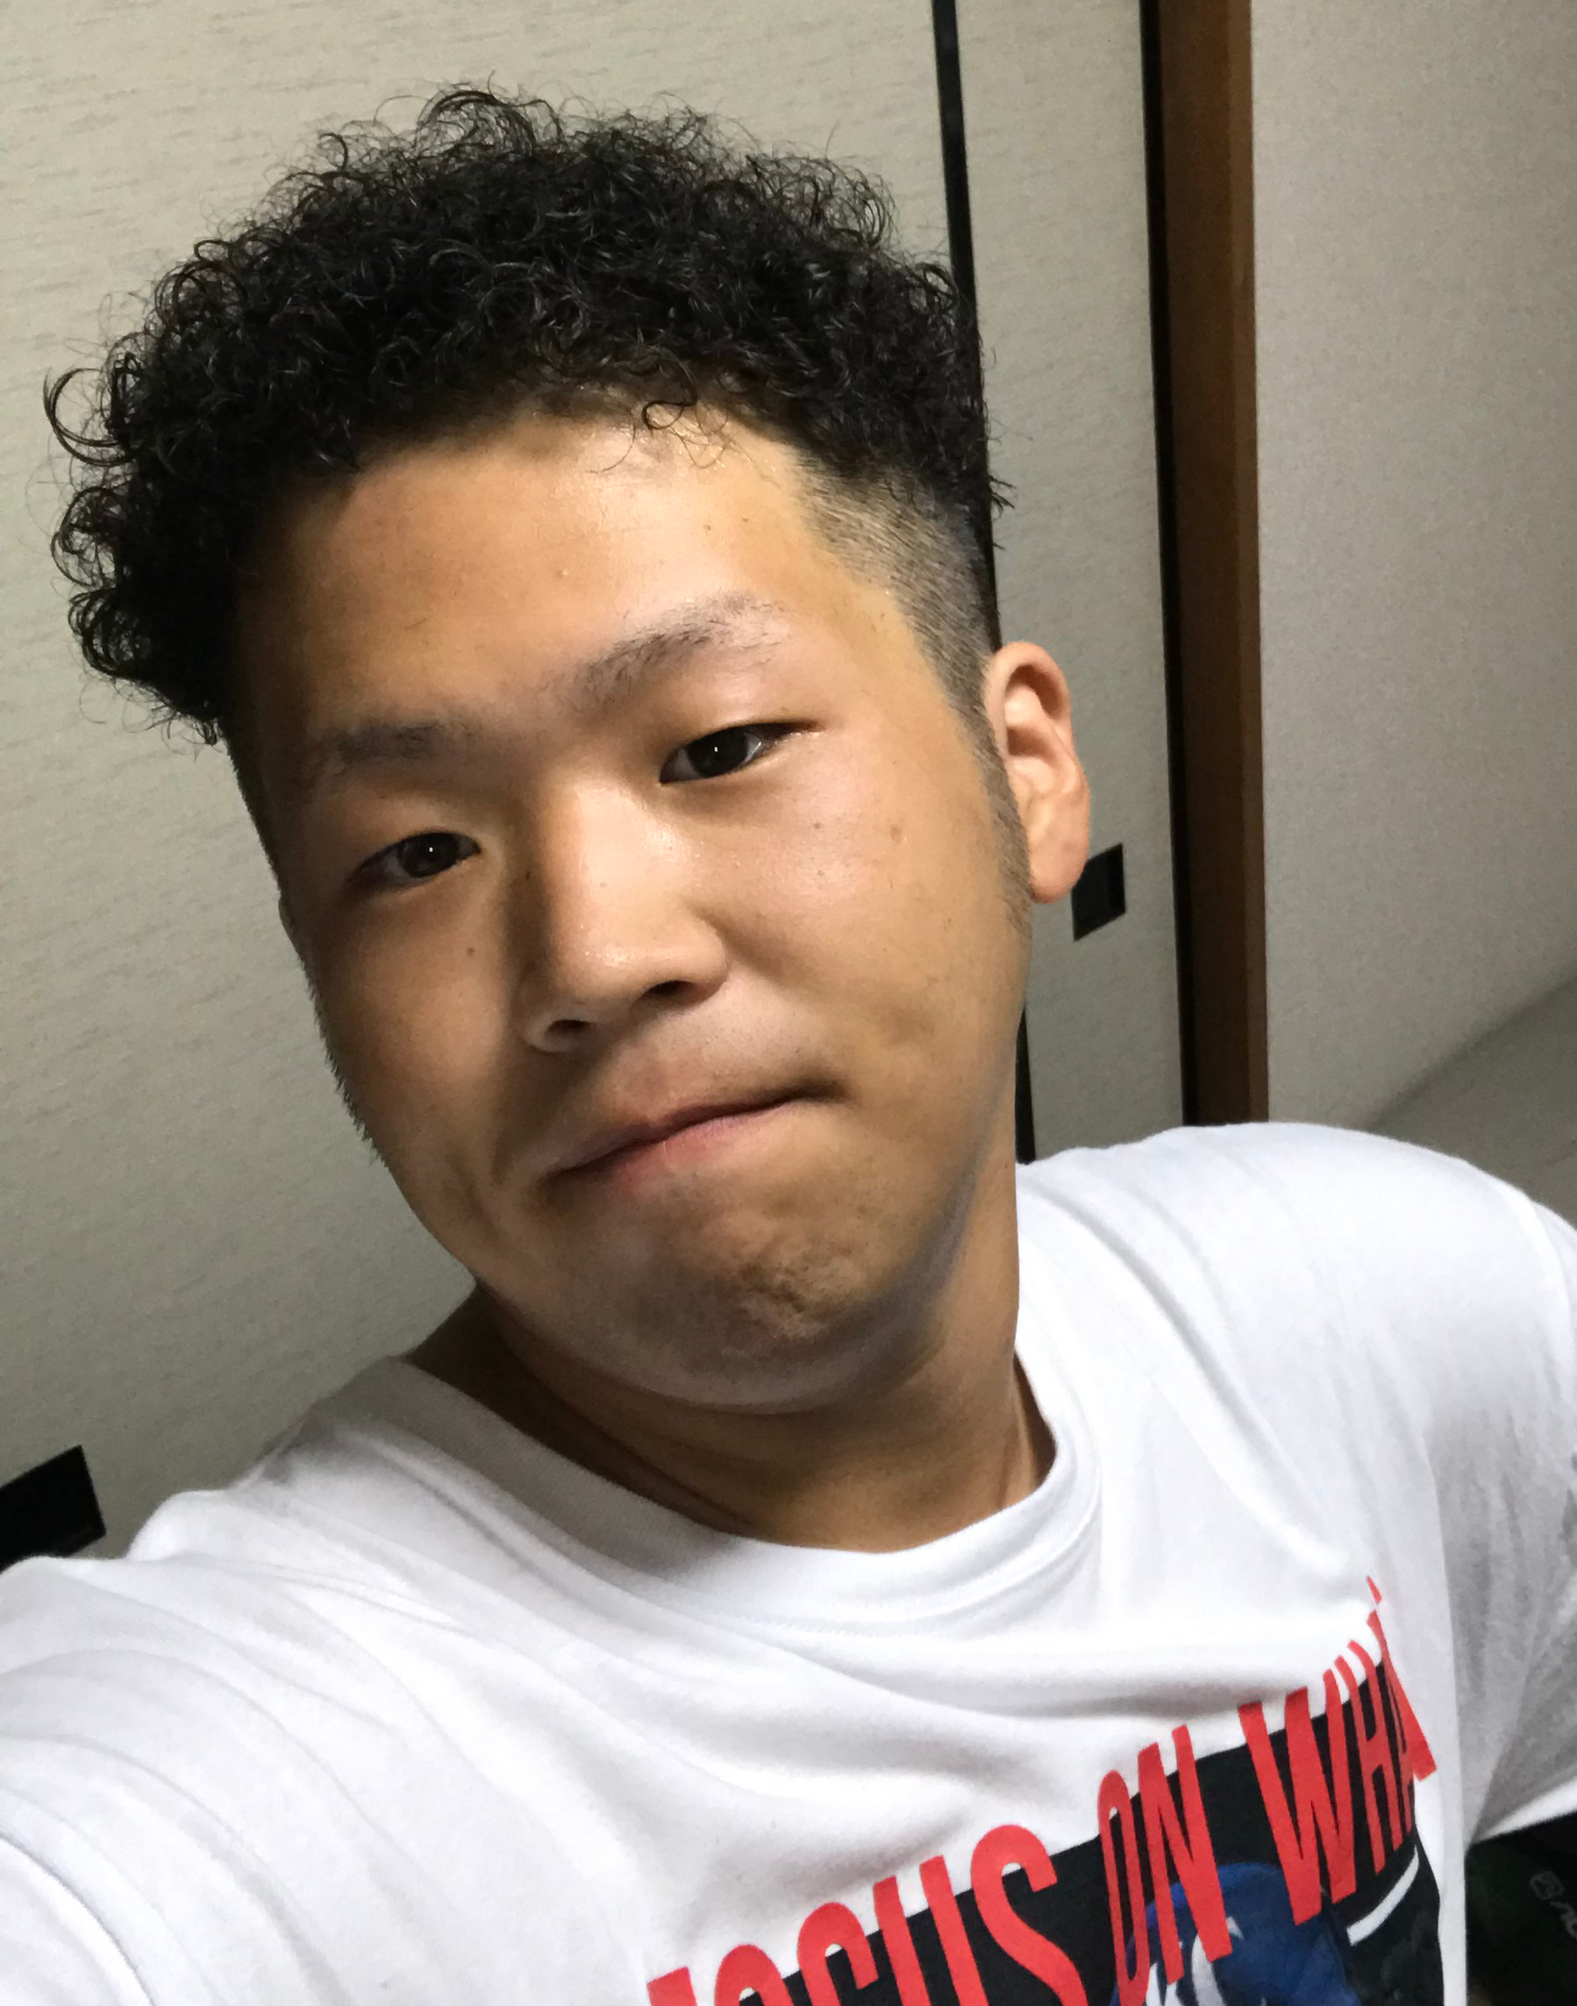
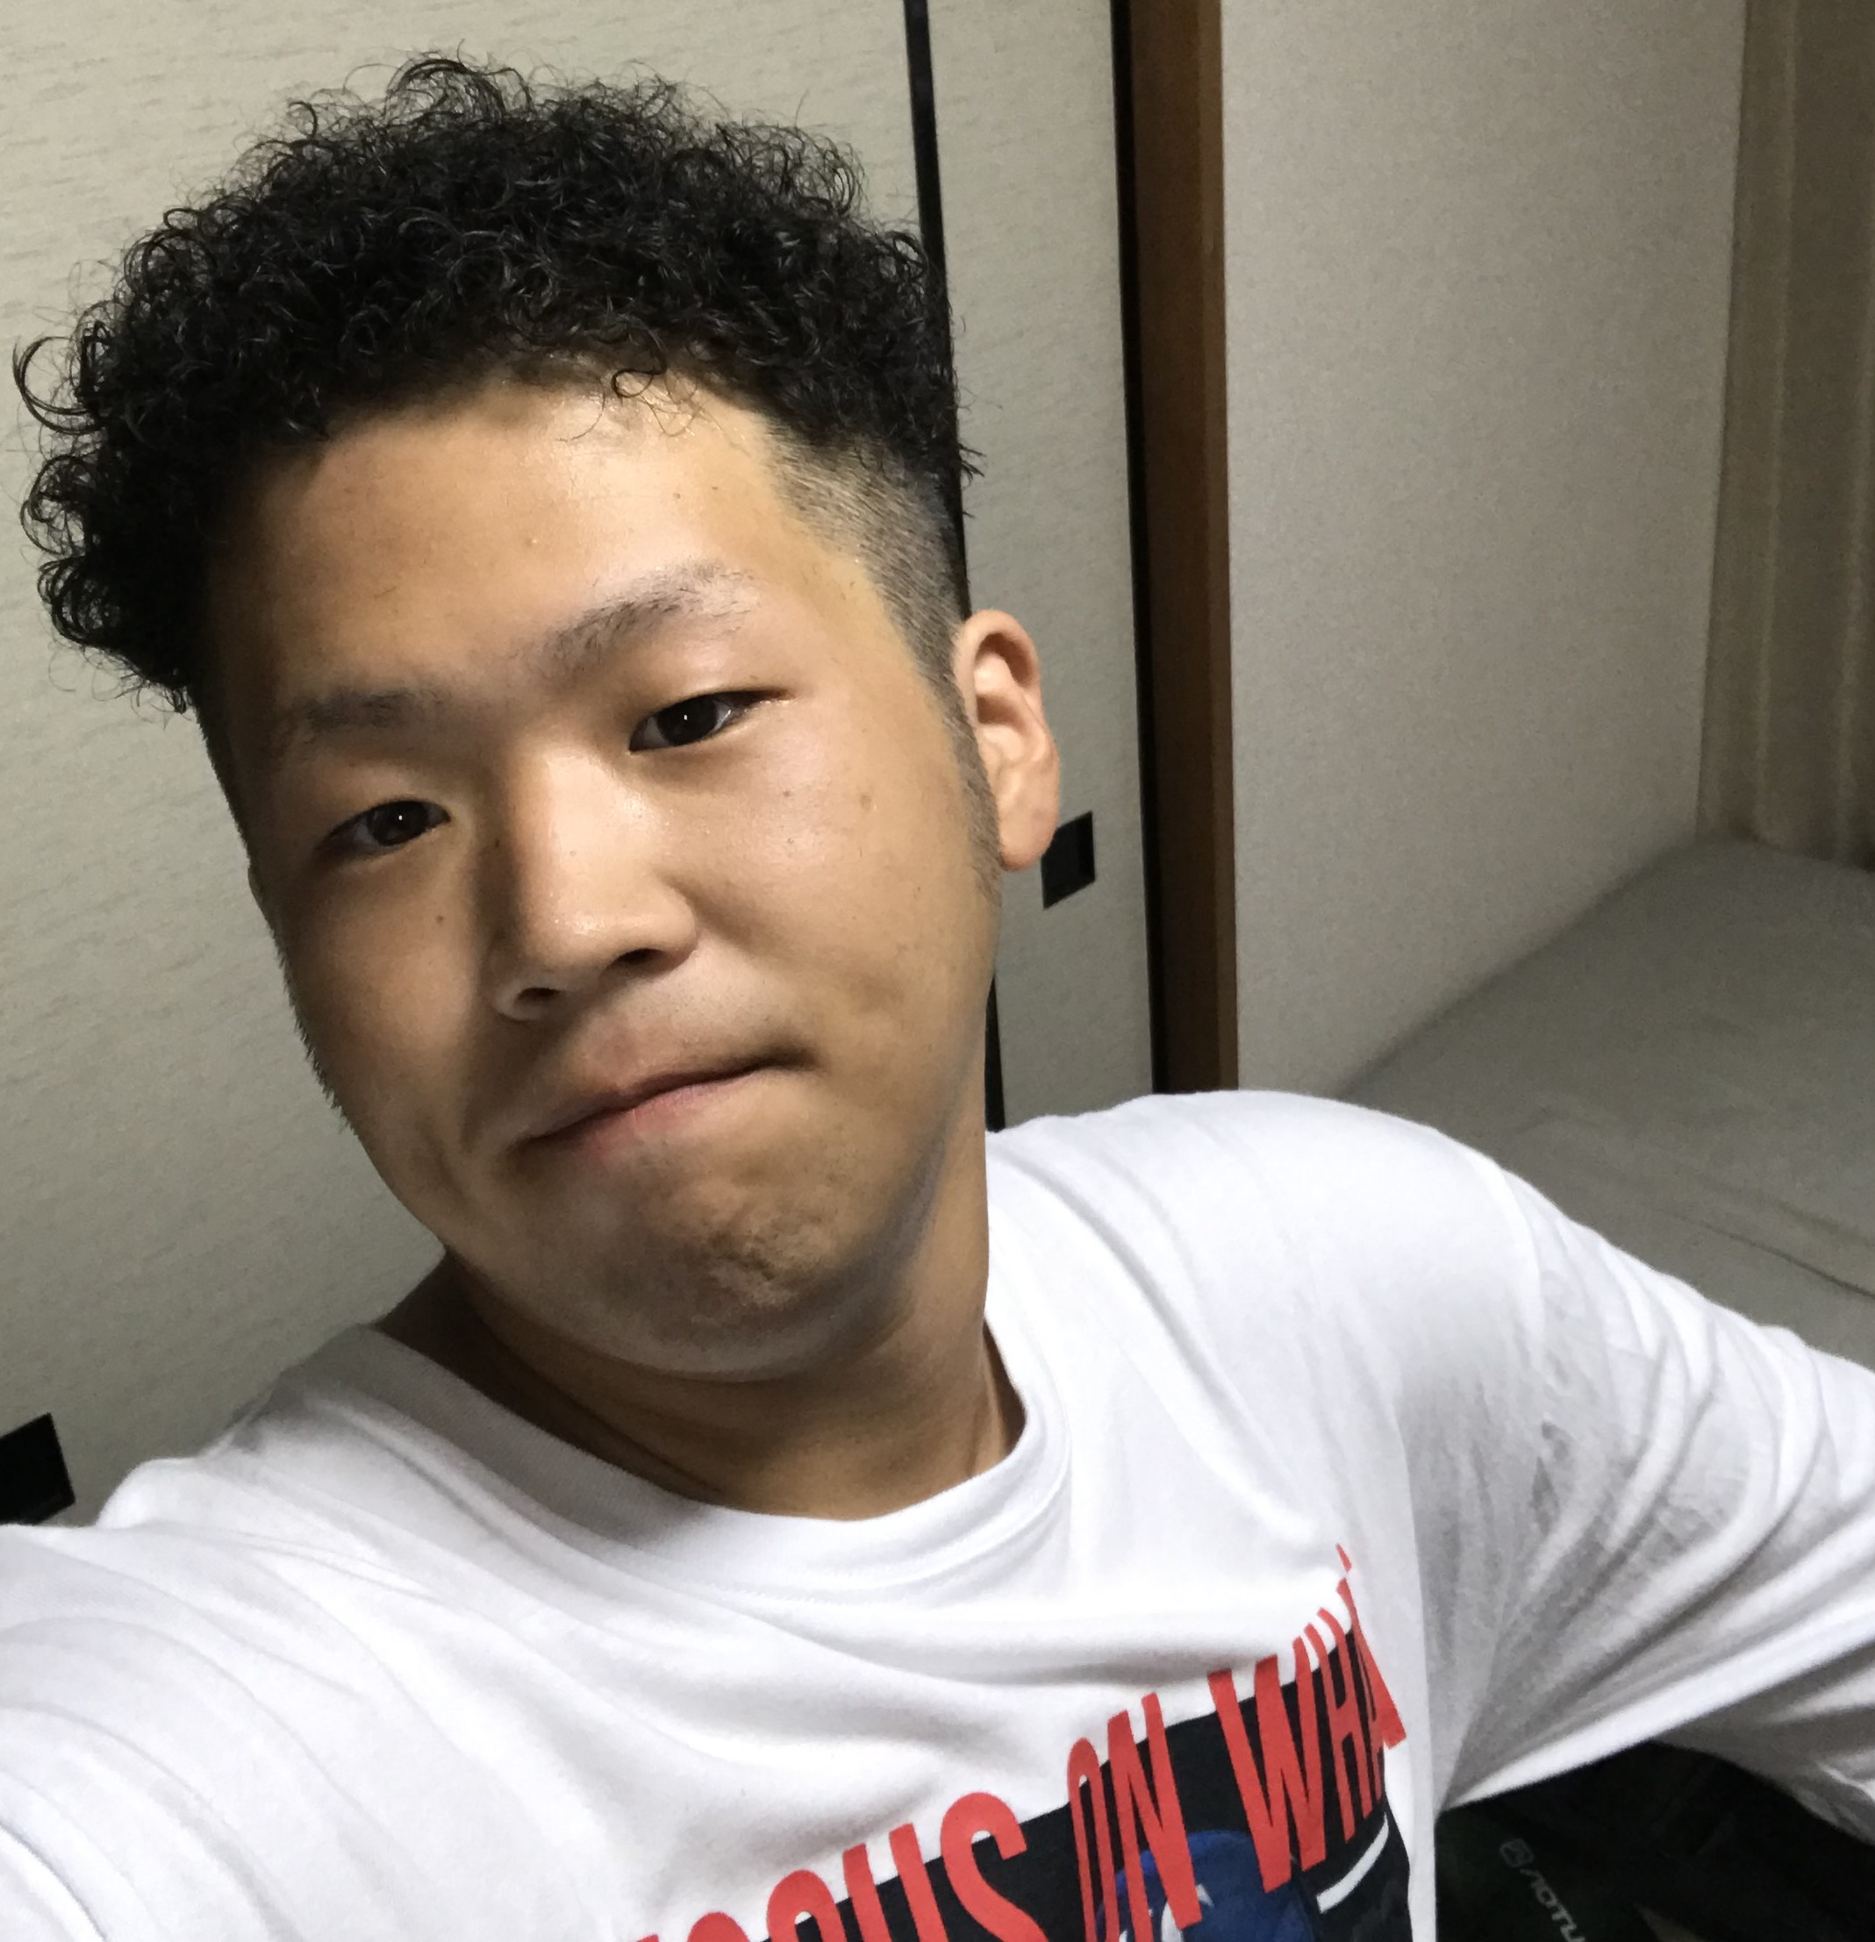
some change

diff --git a/src/views/organisms/Articles/AboutMe.tsx b/src/views/organisms/Articles/AboutMe.tsx
@@ -16,17 +16,21 @@ const AboutMe: React.FC = props => {
         </Half>
         <Half>
           <Introduction
-            title="Vision for the Future"
-            text="テストですテストですテストですテストですテストですテストですテストですテストですテストですテストですテストですテストですテストですテストですテストですテストですテストですテストですテストですテストですテストですテストですテストですテストですテストですテストですテストですテストですテストですテストですテストですテストですテストですテストですテストですテストですテストですテストですテストですテストですテストですテストですテストですテストですテストですテストですテストですテストですテストですテストですテストですテストですテストですテストですテストです"
+            title="自己紹介"
+            text="
+            この度は本サイトをご覧いただき誠にありがとうございます。佐藤更星です。現在私は就職活動の真っ最中で、主にIT業界を受けて回っております。
+            エンジニア志望であり、長期インターンやプログラミングスクールでの講師経験をもとに社会人として最高のスタートダッシュを切れるように日々精進しております。
+            ビジネスサイドに精通したエンジニアになりたいと思っており、ゴリゴリとコードを書くだけでなく、プロジェクトをマネジメントしたり、お客様に提案する立場になりたいと思っています。
+            チャレンジングな課題なほど燃えるタイプであり、必要であればどんなものもキャッチアップし、今までの経験とマージする事で新たなソリューションを生み出していきたいと思っています。
+            ちなみに休日の趣味はスキューバダイビングと食べ物目当ての旅行です。よろしくお願いします。
+            "
           />
           <BasicInfo
             name="佐藤 更星 (さとう こうせい)"
             university="横浜国立大学理工学部３年生"
             address="神奈川県相模原市"
             birthdate="1996年10月24日"
-            email="kou10sei24@yahoo.co.jp"
             github="https://github.com/dodokk"
-            twitter="https://twitter.com/PyDkk"
             company="https://i-d.ai (internship)"
           />
         </Half>

diff --git a/src/views/molecules/BasicInfo.tsx b/src/views/molecules/BasicInfo.tsx
@@ -8,9 +8,7 @@ interface Props {
   university: string;
   address: string;
   birthdate: string;
-  email: string;
   github: string;
-  twitter: string;
   company: string;
 }
 
@@ -21,9 +19,7 @@ const BasicInfo: React.FC<Props> = props => {
       <BasicInfoLow title="University" content={props.university} />
       <BasicInfoLow title="Address" content={props.address} />
       <BasicInfoLow title="BirthDate" content={props.birthdate} />
-      <BasicInfoLow title="Email" content={props.email} />
       <BasicInfoLow title="Github" content={props.github} />
-      <BasicInfoLow title="Twitter" content={props.twitter} />
       <BasicInfoLow title="Company" content={props.company} />
     </Wrapper>
   );
@@ -31,7 +27,7 @@ const BasicInfo: React.FC<Props> = props => {
 
 const Wrapper = styled.div`
   width: calc(100% - 30px * 2);
-  height: 30%;
+  height: calc(40% - 30px * 2);
   padding: 30px;
   background-color: #323232;
   display: flex;

diff --git a/src/views/molecules/Introduction.tsx b/src/views/molecules/Introduction.tsx
@@ -16,19 +16,22 @@ const TopContent: React.FC<Props> = props => {
 };
 
 const Wrapper = styled.div`
-  width: calc(100% - 40px * 2);
-  height: 70%;
-  padding: 40px;
+  width: calc(100% - 30px * 2);
+  height: calc(60% - 20px * 2);
+  padding: 20px 30px;
+  background-color: #f9f9f9;
 `;
 
 const Title = styled.div`
-  font-size: 26px;
-  margin-bottom: 40px;
+  font-size: 22px;
+  margin-bottom: 10px;
   letter-spacing: 4px;
 `;
 
 const Text = styled.div`
   color: #7d7d7d;
+  font-size: 13px;
+  line-height: 2;
 `;
 
 export default TopContent;

diff --git a/src/views/molecules/Selfy.tsx b/src/views/molecules/Selfy.tsx
@@ -35,11 +35,11 @@ const InnerWrapper = styled.div`
   display: flex;
   justify-content: flex-end;
   align-items: flex-end;
-  background-color: rgba(255, 255, 255, 0.6);
+  background-color: rgba(255, 255, 255, 0.7);
   :before {
     content: "";
     display: block;
-    padding-top: 133%;
+    padding-top: 100%;
   }
 `;
 

diff --git a/src/views/molecules/ArticleWrapper.tsx b/src/views/molecules/ArticleWrapper.tsx
@@ -19,8 +19,9 @@ const ArticleWrapper: React.FC<Props> = props => {
 };
 
 const Element = styled(OriginalElement)`
-  margin: 80px 30px;
-  width: calc(100% - 30px * 2);
+  margin: 40px 0px;
+  width: calc(100% - 0px * 2);
+  min-width: 1000px;
 `;
 
 export default ArticleWrapper;
